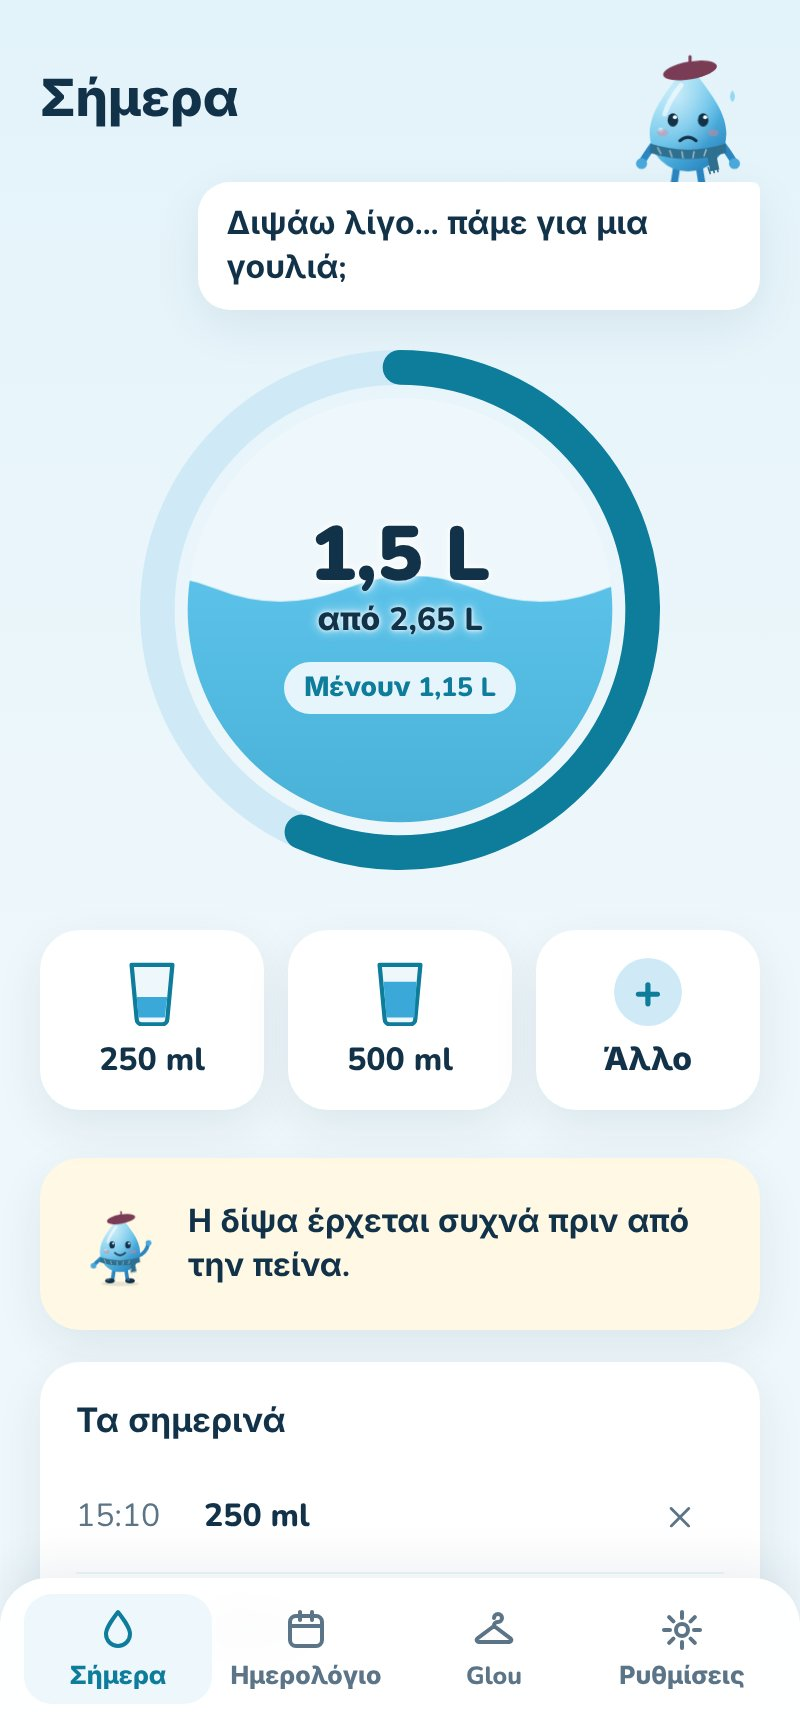
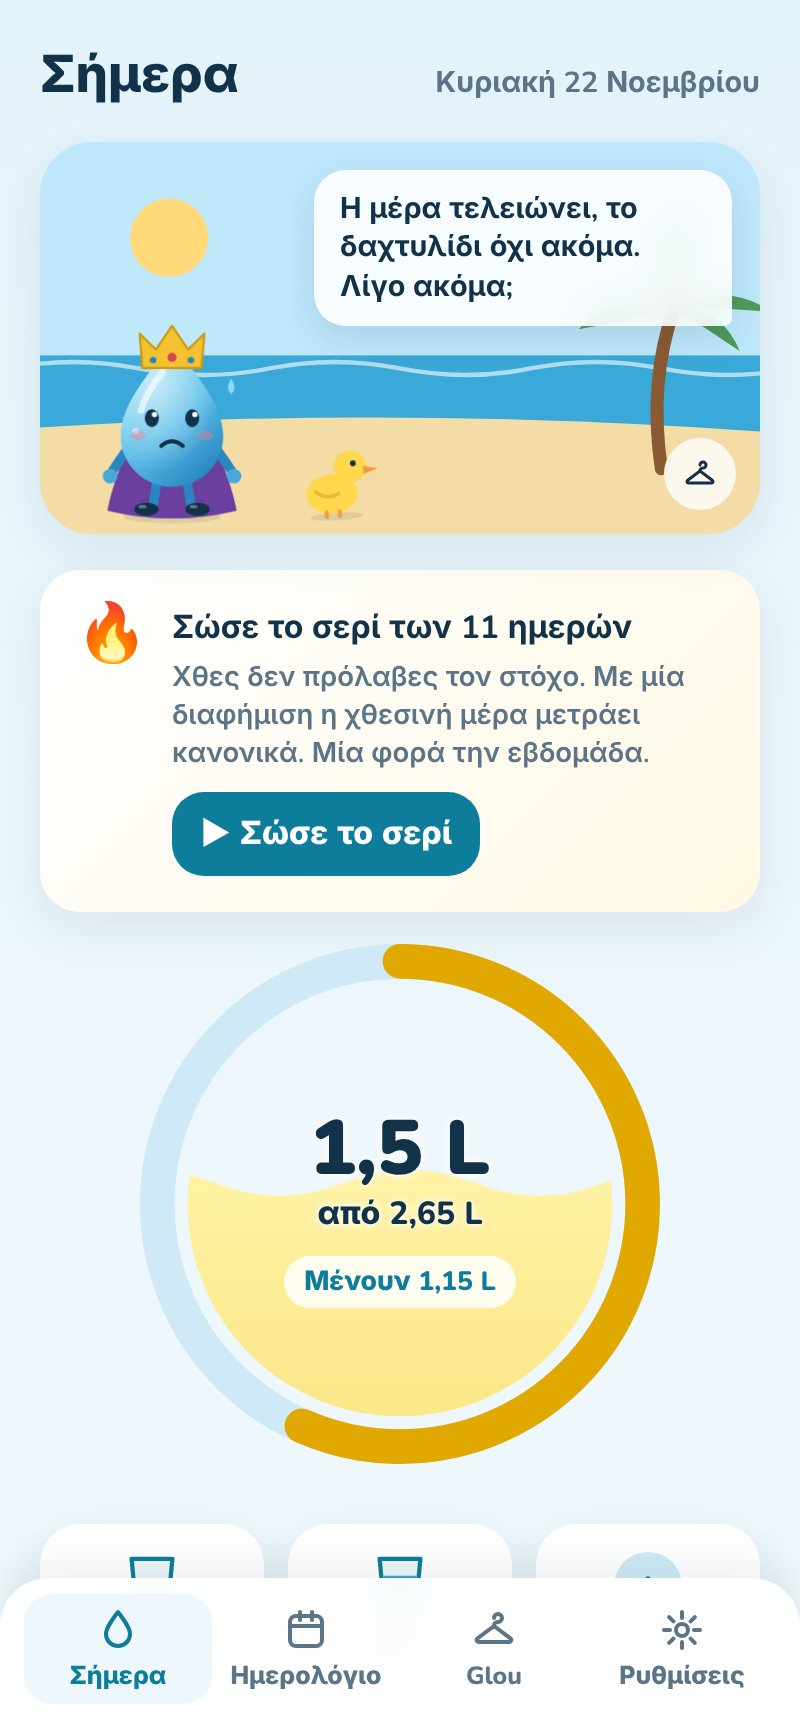
docs: describe the extras and update the screenshots

diff --git a/README.md b/README.md
@@ -6,7 +6,7 @@ A water tracker for Android with a mascot, Glou, and reminders that don't nag. L
   <img src="docs/screenshots/today-el.jpg" alt="Today screen in Greek: a water ring at 1.5 of 2.65 litres, Glou in a beret and scarf, quick-add buttons and a tip" width="200">
   <img src="docs/screenshots/wardrobe.jpg" alt="Glou's wardrobe with the automatic option and outfits to unlock" width="200">
   <img src="docs/screenshots/onboarding.jpg" alt="First launch: weight and activity give a suggested daily goal, with a health note" width="200">
-  <img src="docs/screenshots/settings.jpg" alt="Settings with the automatic goal and reminders" width="200">
+  <img src="docs/screenshots/midnight.jpg" alt="The midnight theme with Glou in space and a galaxy ring" width="200">
 </p>
 
 ## Features
@@ -16,7 +16,8 @@ A water tracker for Android with a mascot, Glou, and reminders that don't nag. L
 - **Calendar:** each day is marked met or missed, with the current streak and the month's tally.
 - **Glou the mascot:** sleepy in the morning, thirsty when the day runs ahead of you, happy on schedule and proud at the goal. Glou also shares one tip each day.
 - **Glou's wardrobe:** a scarf and beanie in the cold, a raincoat and umbrella in the rain, sunglasses in the sun, and outfits for Christmas, New Year, Halloween, Valentine's and the Greek national days. With your location on, the clothes follow today's forecast; without it, they follow the season.
-- **Outfits to unlock:** nine extra outfits (king, chef, wizard, DJ, superhero, spring, pirate, cowboy, gentleman), each unlocked by watching three short ads. The ad screen is a placeholder for now; real ads will use AdMob.
+- **Glou talks like a person:** more than a hundred lines that change with the time of day, how far along you are, the weather, the weekend and your streak.
+- **Extras to unlock with short ads:** outfits, scenes (beach, snowy peak, city at night, space, under the sea, forest), colour themes (including a dark one), what fills the ring (lemonade, matcha, strawberry, galaxy), a friend for Glou, dances, sounds, goal celebrations and alternative app icons. Each takes one to three ads and stays unlocked for good. There's also one random gift a day, a limit of ten ads a day, and once a week an ad can save a streak you broke yesterday. Reminders, history and the goal are never behind an ad. The ad screen is a placeholder for now; real ads will use AdMob.
 - **Reminders that respect you:**
   - only between the hours you wake up and go to bed, every 30 to 120 minutes;
   - quiet for one interval after you drink;
@@ -24,9 +25,9 @@ A water tracker for Android with a mascot, Glou, and reminders that don't nag. L
   - a "Drank 250 ml" button on the notification that logs the glass without opening the app.
 - **Private:** no account and no server. Your drinks are kept in the app's storage on the phone. If you turn on the weather, only a rounded location is sent to MET Norway to get the forecast.
 
-| Calendar | Custom amount |
+| Calendar | Settings |
 |---|---|
-| <img src="docs/screenshots/calendar.jpg" alt="Calendar with the current streak and the days that met the goal" width="240"> | <img src="docs/screenshots/custom-amount.jpg" alt="Bottom sheet to choose a custom amount" width="240"> |
+| <img src="docs/screenshots/calendar.jpg" alt="Calendar with the current streak and the days that met the goal" width="240"> | <img src="docs/screenshots/settings.jpg" alt="Settings with the automatic goal and reminders" width="240"> |
 
 > **Not medical advice.** Glou gives a general estimate. Water needs vary, and people with some health conditions (for example kidney or heart conditions), or who are pregnant or breastfeeding, should follow their doctor's advice.
 
@@ -54,7 +55,7 @@ In Android Studio, pick your phone and press **Run**. Every push to `main` also 
 | Weather | MET Norway Locationforecast |
 | Tests | Vitest |
 
-The reminder plan is a pure function in [`src/reminders/plan.js`](src/reminders/plan.js), so its rules are tested without a phone. The app schedules the plan for the next two days and refreshes it after every drink and every time it comes back to the screen. The notifications themselves come from [`android/.../reminders`](android/app/src/main/java/com/nikpar/glou/reminders): when you tap "Drank 250 ml", a receiver writes the drink straight into the app's storage, quiets the next reminders and shows a short confirmation. Outfit rules live in [`src/lib/outfits.js`](src/lib/outfits.js) and the goal in [`src/lib/hydration.js`](src/lib/hydration.js), both with tests.
+The reminder plan is a pure function in [`src/reminders/plan.js`](src/reminders/plan.js), so its rules are tested without a phone. The app schedules the plan for the next two days and refreshes it after every drink and every time it comes back to the screen. The notifications themselves come from [`android/.../reminders`](android/app/src/main/java/com/nikpar/glou/reminders): when you tap "Drank 250 ml", a receiver writes the drink straight into the app's storage, quiets the next reminders and shows a short confirmation. App icons are generated by [`scripts/icons.py`](scripts/icons.py). Outfit rules live in [`src/lib/outfits.js`](src/lib/outfits.js) and the goal in [`src/lib/hydration.js`](src/lib/hydration.js), both with tests.
 
 ## Licence
 
